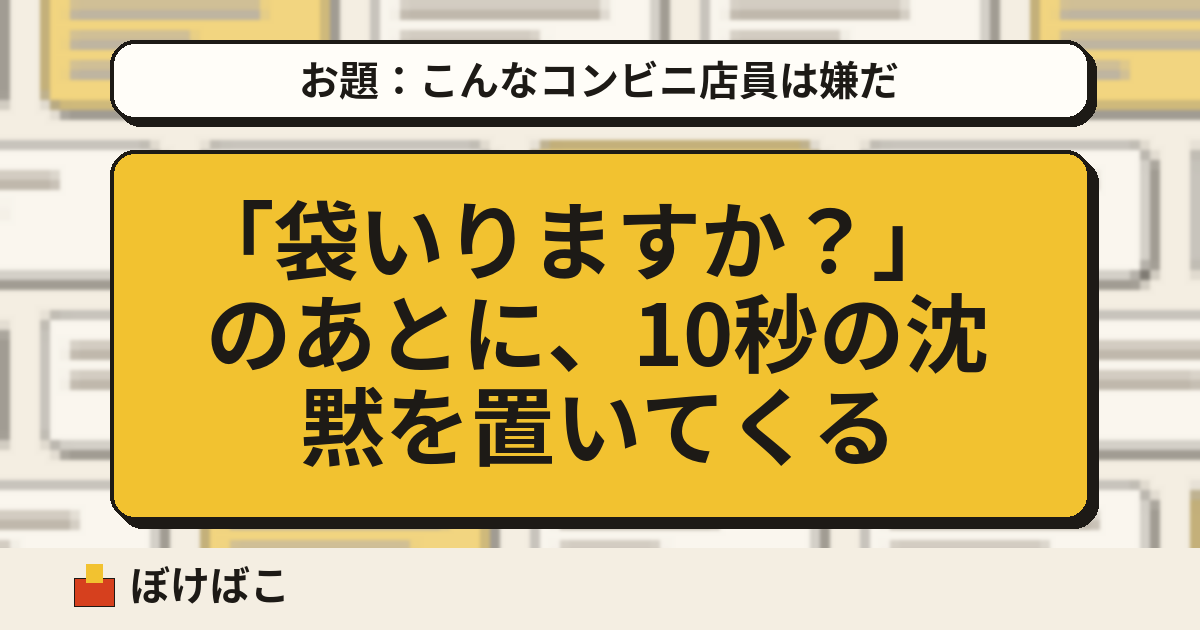
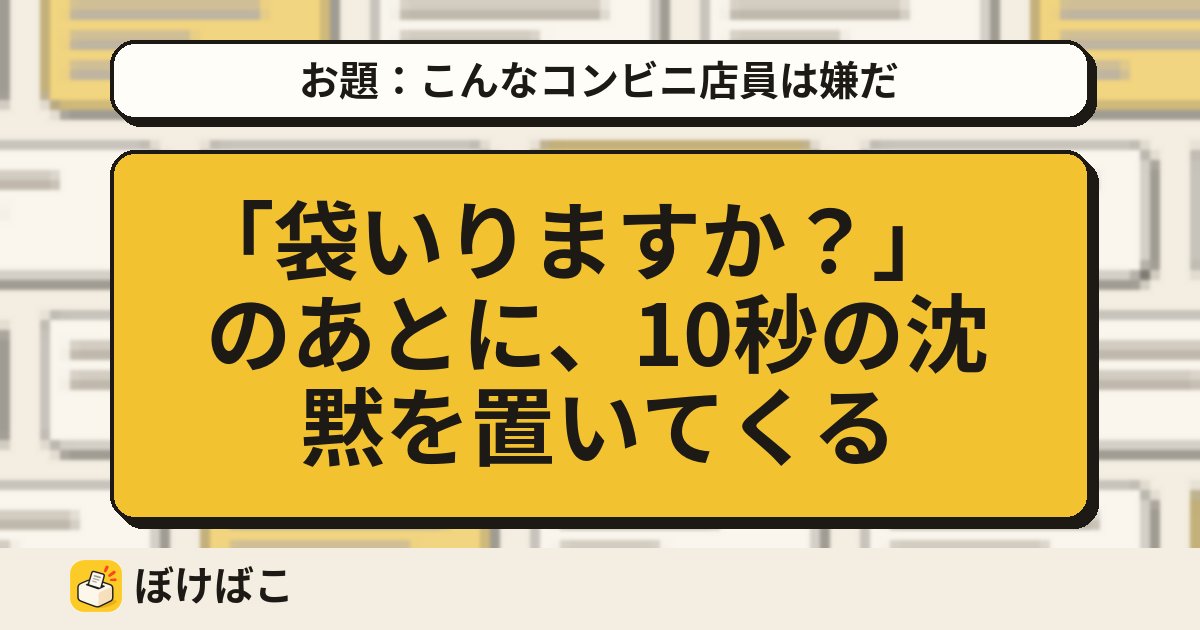
[共通] アプリのアイコンを入れる（タブ・ホーム画面・ロゴマーク・OGP）
- favicon.ico、apple-touch-icon、manifest.webmanifest（192・512・maskable）
- ヘッダー・管理画面のロゴマークをアイコンの画像に。OGP 画像のロゴもアイコン（A-08 で差し替えたロゴがあればそちら）
- 元の絵は docs/design/icon.png。OGP の見本画像も作り直す

Claude-Session: https://claude.ai/code/session_01Borx9FdSrfydhRVjgd3JYb

Changed region(s): [[0.0308, 0.8746, 0.2467, 0.9952]]

diff --git a/app/Libraries/OgpImage.php b/app/Libraries/OgpImage.php
@@ -188,21 +188,25 @@ final class OgpImage
     }
 
     /**
-     * ロゴとサービス名。writable/ogp-templates/logo.png があればそれを使う
+     * ロゴとサービス名。A-08 で差し替えたロゴ（writable/ogp-templates/logo.png）があればそれ、なければアプリのアイコン
+     * （public/assets/img/logo-ogp.png。元の絵は docs/design/icon.png）
      */
     private function brand(GdImage $img, int $x = 80, int $y = 56): void
     {
-        $logo = WRITEPATH . 'ogp-templates/logo.png';
+        foreach ([WRITEPATH . 'ogp-templates/logo.png', (defined('FCPATH') ? FCPATH : '') . 'assets/img/logo-ogp.png'] as $logo) {
+            if (is_file($logo) && ($png = @imagecreatefrompng($logo)) !== false) {
+                imagealphablending($img, true);
+                imagecopyresampled($img, $png, $x, $y, 0, 0, 52, 52, imagesx($png), imagesy($png));
+                imagedestroy($png);
+                $this->text($img, 'ぼけばこ', $x + 64, $y + 40, 30, self::INK);
 
-        if (is_file($logo) && ($png = imagecreatefrompng($logo)) !== false) {
-            imagecopyresampled($img, $png, $x, $y, 0, 0, 48, 48, imagesx($png), imagesy($png));
-            imagedestroy($png);
-        } else {
-            // 紙が朱色の箱に入るロゴの簡略形
-            imagefilledrectangle($img, $x + 4, $y + 18, $x + 44, $y + 46, $this->color($img, self::SHU));
-            imagerectangle($img, $x + 4, $y + 18, $x + 44, $y + 46, $this->color($img, self::INK));
-            imagefilledrectangle($img, $x + 16, $y + 4, $x + 32, $y + 22, $this->color($img, self::KIN));
+                return;
+            }
         }
+        // 紙が朱色の箱に入るロゴの簡略形（アイコンの画像もないとき）
+        imagefilledrectangle($img, $x + 4, $y + 18, $x + 44, $y + 46, $this->color($img, self::SHU));
+        imagerectangle($img, $x + 4, $y + 18, $x + 44, $y + 46, $this->color($img, self::INK));
+        imagefilledrectangle($img, $x + 16, $y + 4, $x + 32, $y + 22, $this->color($img, self::KIN));
         $this->text($img, 'ぼけばこ', $x + 60, $y + 40, 30, self::INK);
     }
 

diff --git a/app/Views/partials/logo.php b/app/Views/partials/logo.php
@@ -1,2 +1,2 @@
-<?php /* ロゴマーク（紙が朱色の箱に入る形）。色は tokens.css と同じ値 */ ?>
-<svg class="c-logo" width="30" height="30" viewBox="0 0 32 32" aria-hidden="true"><path d="M11 15 L12.5 3.5 L22 4.8 L20.5 15" fill="#F2C230" stroke="#1D1A16" stroke-width="2.2" stroke-linejoin="round"></path><rect x="3" y="12" width="26" height="17" rx="3" fill="#D6401E" stroke="#1D1A16" stroke-width="2.2"></rect><path d="M10 17 H22" stroke="#1D1A16" stroke-width="2.6" stroke-linecap="round"></path></svg>
+<?php /* ロゴマーク（アプリのアイコン。紙が箱に入る絵）。元の絵は docs/design/icon.png */ ?>
+<img class="c-logo" src="<?= asset_url('img/logo-mark.png') ?>" width="30" height="30" alt="" aria-hidden="true">

diff --git a/app/Views/layouts/front.php b/app/Views/layouts/front.php
@@ -17,6 +17,7 @@ $ads ??= [];
 <head>
 <meta charset="utf-8">
 <meta name="viewport" content="width=device-width, initial-scale=1">
+<?= $this->include('partials/app_icons') ?>
 <?= $this->renderSection('meta') ?: "<title>ぼけばこ｜登録不要・24時間限定の匿名大喜利</title>\n" . '<meta name="description" content="お題を出したら、24時間だけ大喜利スタート。Xでシェアして、みんなからボケを集めよう。">' ?>
 <link rel="preconnect" href="https://fonts.googleapis.com">
 <link rel="preconnect" href="https://fonts.gstatic.com" crossorigin>

diff --git a/app/Views/partials/app_icons.php b/app/Views/partials/app_icons.php
@@ -1,0 +1,6 @@
+<?php /* サイトのアイコン（ブラウザのタブ・スマホのホーム画面）。元の絵は docs/design/icon.png */ ?>
+<link rel="icon" href="<?= base_url('favicon.ico') ?>" sizes="any">
+<link rel="icon" href="<?= asset_url('img/icon-192.png') ?>" type="image/png">
+<link rel="apple-touch-icon" href="<?= asset_url('img/apple-touch-icon.png') ?>">
+<link rel="manifest" href="<?= base_url('manifest.webmanifest') ?>">
+<meta name="theme-color" content="#FDCC29">

diff --git a/app/Views/layouts/admin.php b/app/Views/layouts/admin.php
@@ -23,6 +23,7 @@ $errors ??= [];
 <head>
 <meta charset="utf-8">
 <meta name="viewport" content="width=device-width, initial-scale=1">
+<?= $this->include('partials/app_icons') ?>
 <meta name="robots" content="noindex, nofollow">
 <title><?= esc($title) ?>｜ぼけばこ管理</title>
 <link href="https://fonts.googleapis.com/css2?family=Dela+Gothic+One&family=Zen+Kaku+Gothic+New:wght@400;500;700;900&display=swap" rel="stylesheet">
